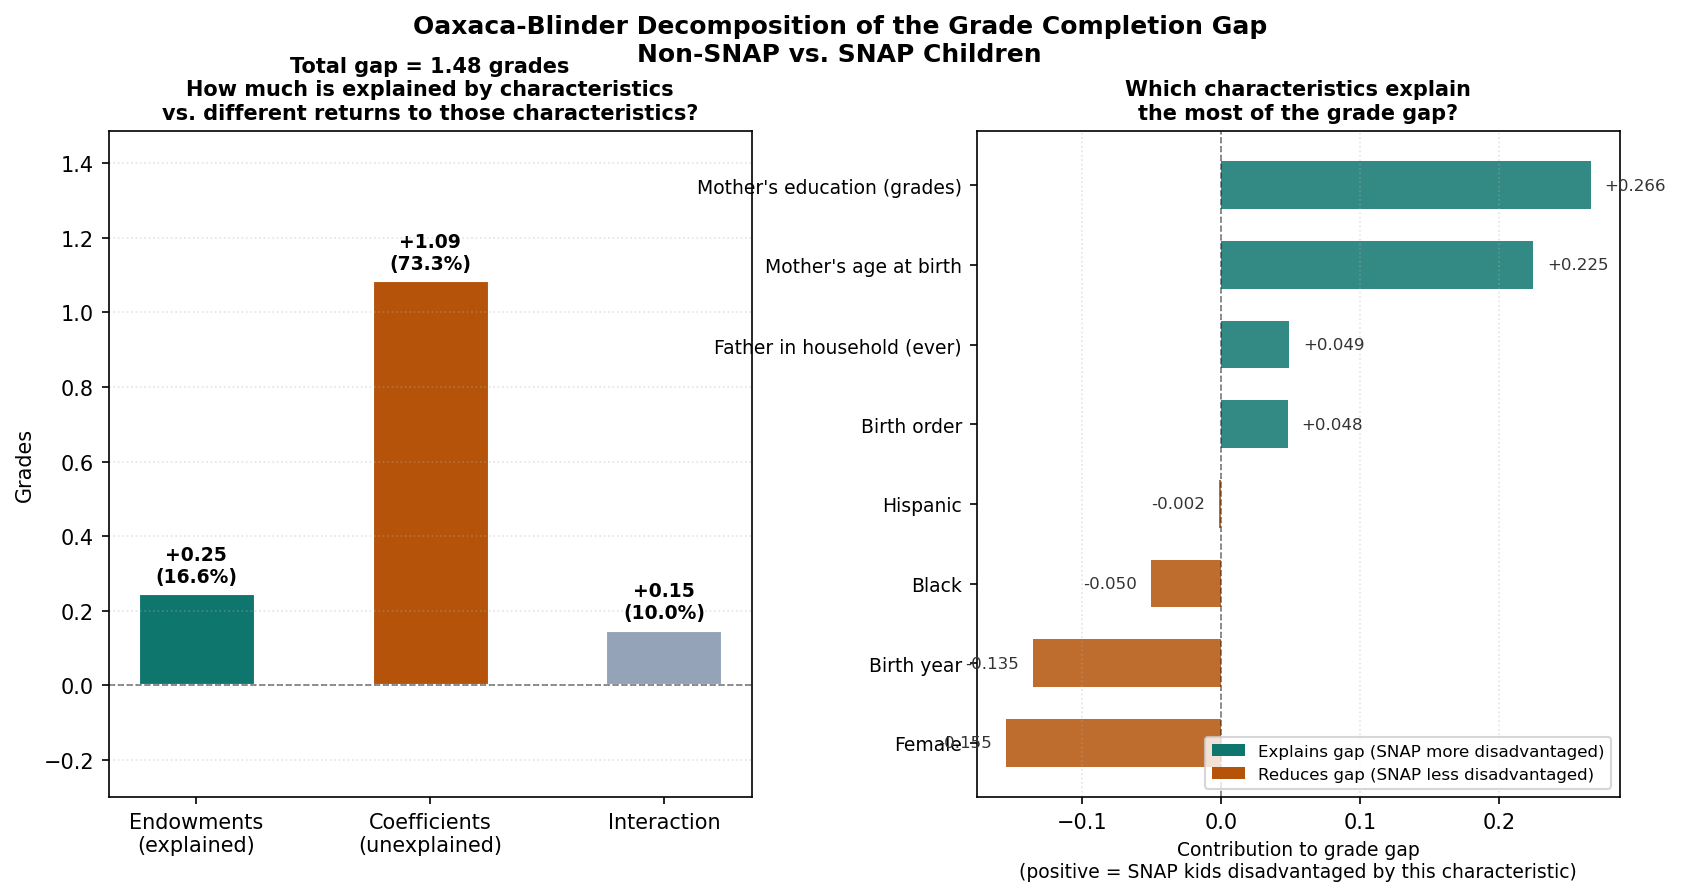
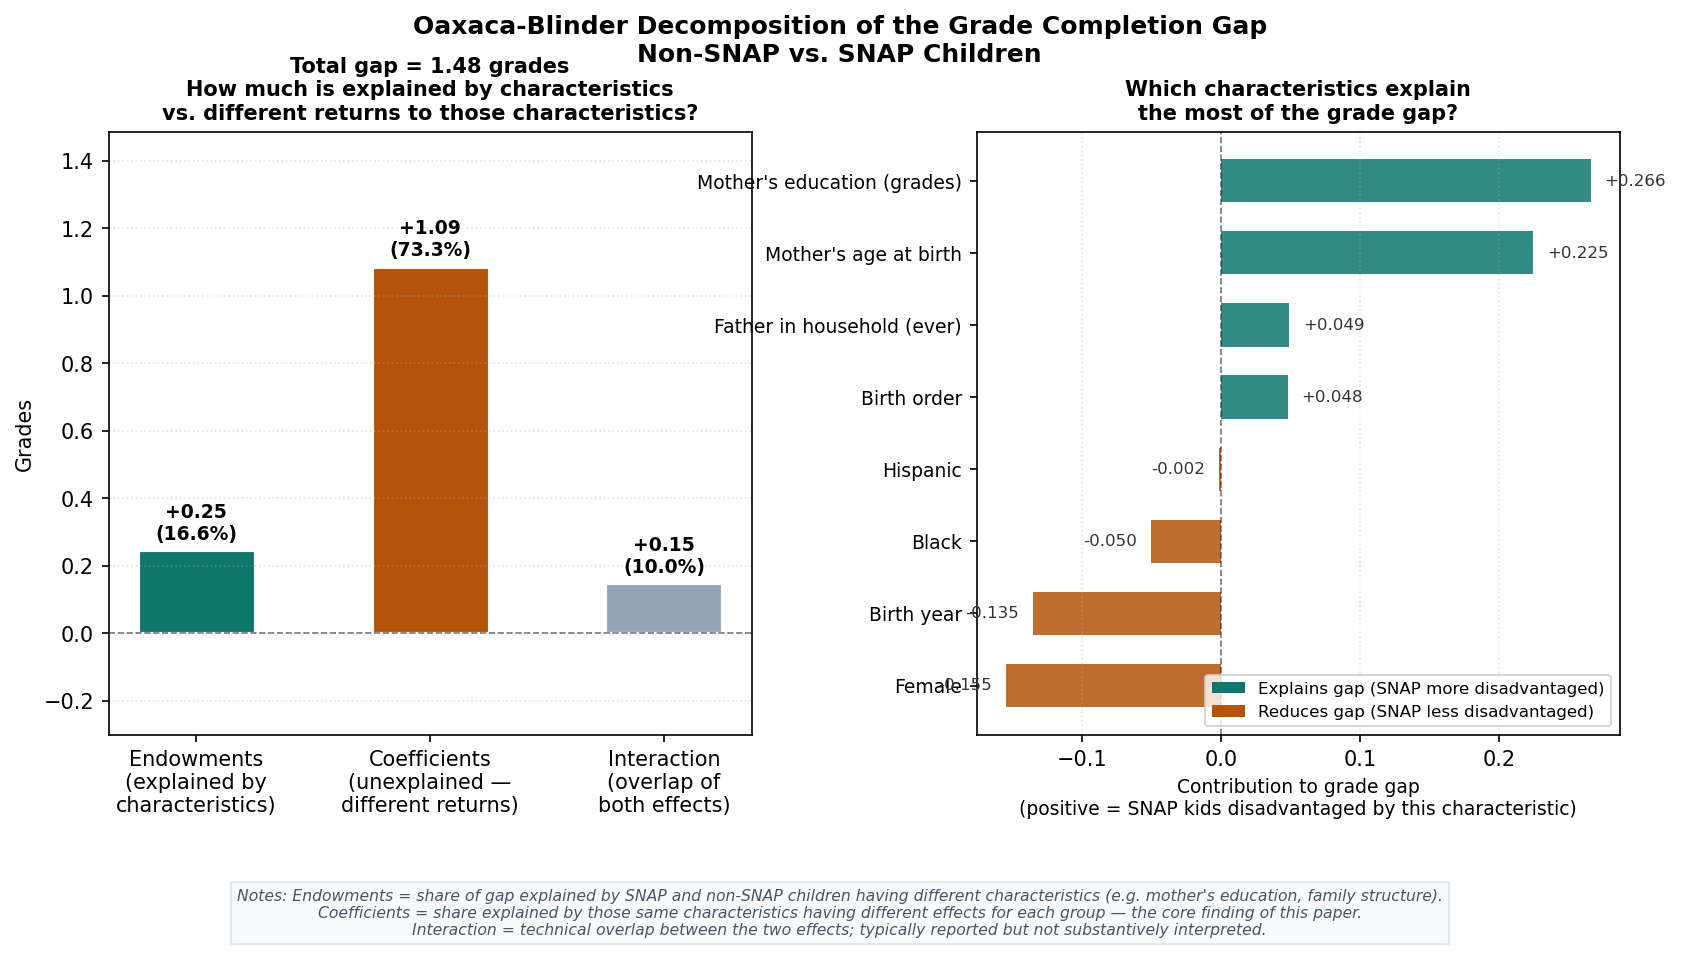
Update Figure 5 — clearer labels and explanatory note on Oaxaca-Blinder components

diff --git a/code/figure5_oaxaca_blinder.py b/code/figure5_oaxaca_blinder.py
@@ -139,7 +139,11 @@ endo_df.reset_index().to_csv(OUTPUT_DIR / "figure5_oaxaca_blinder.csv", index=Fa
 fig, axes = plt.subplots(1, 2, figsize=(13, 6))
 
 # Left panel: stacked bar showing decomposition
-components = ["Endowments\n(explained)", "Coefficients\n(unexplained)", "Interaction"]
+components = [
+    "Endowments\n(explained by\ncharacteristics)",
+    "Coefficients\n(unexplained —\ndifferent returns)",
+    "Interaction\n(overlap of\nboth effects)"
+]
 values     = [total_endow, total_coef, total_inter]
 colors     = ["#0f766e", "#b45309", "#94a3b8"]
 pcts       = [v/total_gap*100 for v in values]
@@ -204,7 +208,20 @@ fig.suptitle(
     "Non-SNAP vs. SNAP Children",
     fontsize=12, fontweight="bold"
 )
-plt.subplots_adjust(top=0.85, wspace=0.35)
+
+note = (
+    "Notes: Endowments = share of gap explained by SNAP and non-SNAP children having different "
+    "characteristics (e.g. mother's education, family structure).\n"
+    "Coefficients = share explained by those same characteristics having different effects for "
+    "each group — the core finding of this paper.\n"
+    "Interaction = technical overlap between the two effects; typically reported but not "
+    "substantively interpreted."
+)
+fig.text(0.5, -0.04, note, ha="center", fontsize=7.5, color="#475569",
+         wrap=True, style="italic",
+         bbox=dict(boxstyle="square,pad=0.4", fc="#f8fafc", ec="#e2e8f0"))
+
+plt.subplots_adjust(top=0.85, wspace=0.35, bottom=0.18)
 save_fig(fig, OUTPUT_DIR / "figure5_oaxaca_blinder.png", tight=False)
 print(f"\nSaved: {OUTPUT_DIR / 'figure5_oaxaca_blinder.png'}")
 print("figure5_oaxaca_blinder.py complete.")